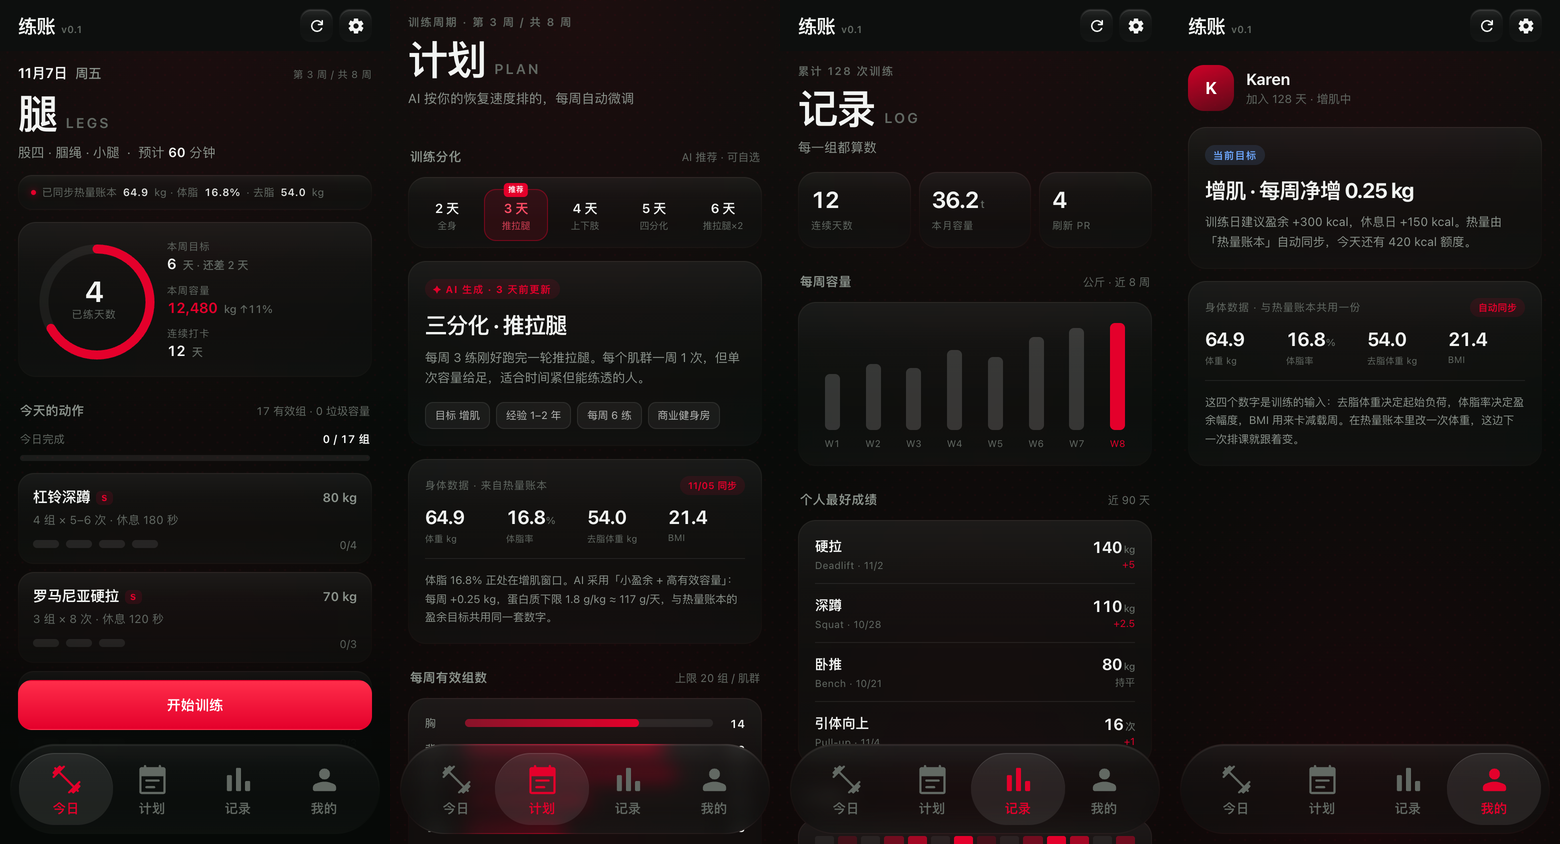
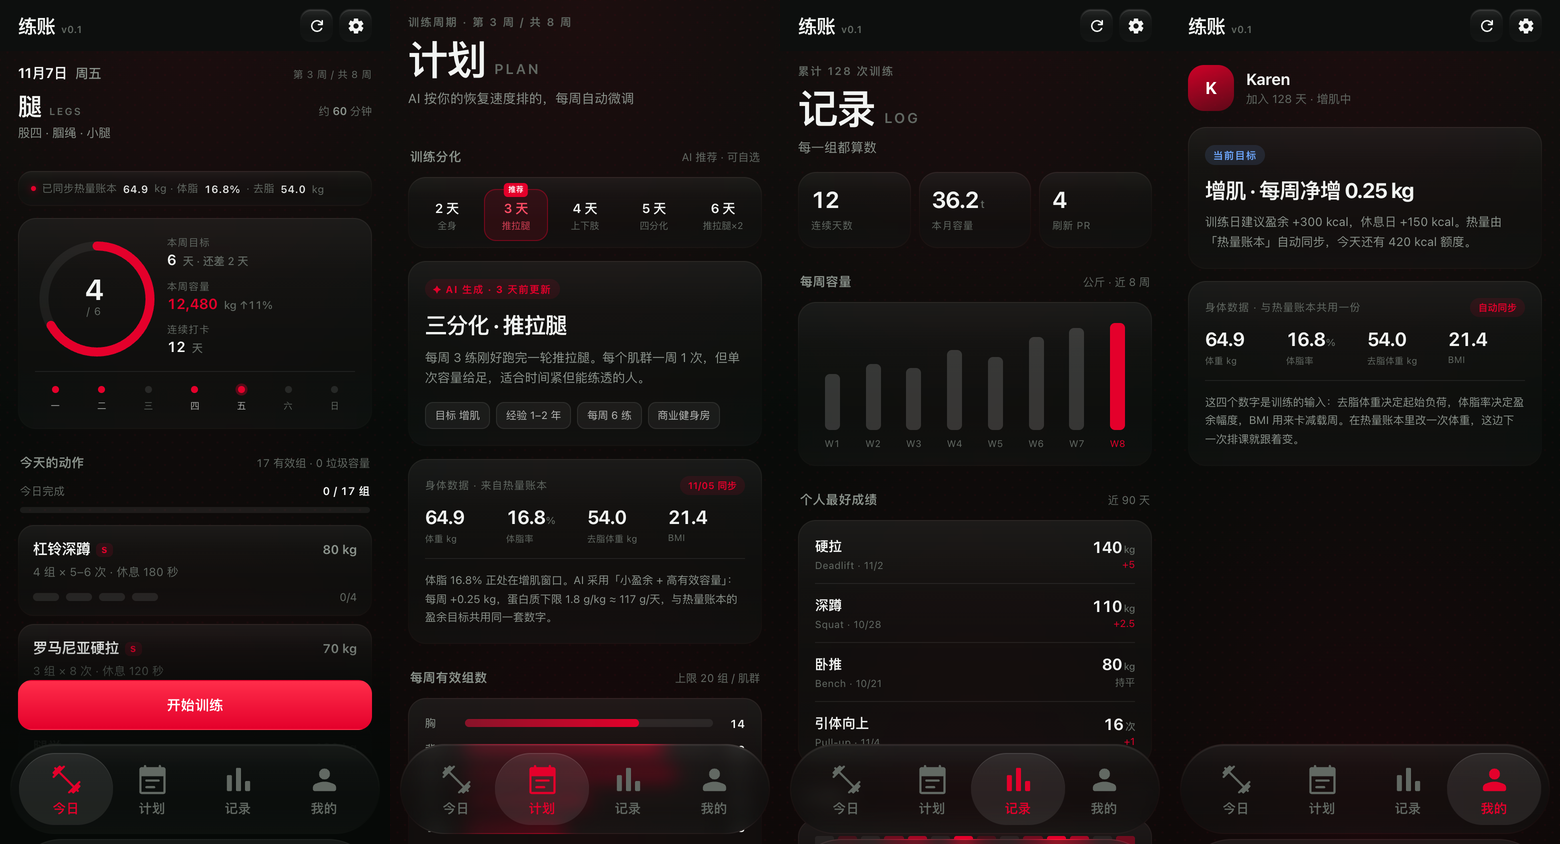
设置卡改贴底悬浮卡(10/52/66x4/版本在标题右/下滑关闭)；今日头部去PPT；圆圈改4/6+7点周条；status-bar改black

diff --git a/index.html b/index.html
@@ -5,7 +5,7 @@
 <meta name="viewport" content="width=device-width,initial-scale=1,maximum-scale=1,user-scalable=no">
 <meta name="theme-color" content="#08090a">
 <meta name="apple-mobile-web-app-capable" content="yes">
-<meta name="apple-mobile-web-app-status-bar-style" content="black-translucent">
+<meta name="apple-mobile-web-app-status-bar-style" content="black">
 <meta name="apple-mobile-web-app-title" content="练账">
 <link rel="manifest" href="./manifest.webmanifest">
 <link rel="icon" type="image/png" href="./icon-192.png">
@@ -132,6 +132,15 @@ body{
 .topicon{width:33px;padding:0}
 .topicon svg{width:18px;height:18px;fill:currentColor}
 
+/* 今日头部（App 化，不用封面大标题） */
+.todayhead{margin-bottom:16px}
+.throw{display:flex;align-items:baseline;gap:8px}
+.throw b{font-size:24px;font-weight:700;letter-spacing:-.03em;line-height:1.1}
+.throw .en{font-size:10px;font-weight:600;letter-spacing:.16em;color:var(--muted2)}
+.thmin{margin-left:auto;font-style:normal;font-size:11px;color:var(--muted2)}
+.thmin b{font-size:11px;font-weight:600;color:var(--muted)}
+.todayhead p{margin:5px 0 0;font-size:12px;color:var(--muted)}
+
 /* 日期行 */
 .dateline{display:flex;align-items:baseline;gap:8px;margin-bottom:10px}
 .dateline .d-main{font-size:14px;font-weight:650;color:var(--text);letter-spacing:-.01em}
@@ -211,7 +220,14 @@ h1 .en{font-size:14px;font-weight:600;letter-spacing:.16em;color:var(--muted2)}
 .card + .card{margin-top:13px}
 
 /* ---------- 进度环卡 ---------- */
-.ringcard{display:flex;align-items:center;gap:6px}
+.ringrow{display:flex;align-items:center;gap:6px}
+.weekstrip{display:flex;gap:6px;margin-top:15px;padding-top:14px;border-top:1px solid var(--line)}
+.wd-day{flex:1;display:flex;flex-direction:column;align-items:center;gap:6px}
+.wd-day i{width:7px;height:7px;border-radius:50%;background:rgba(255,255,255,.1)}
+.wd-day.on i{background:var(--lime)}
+.wd-day.today i{box-shadow:0 0 0 2.5px rgba(228,0,43,.32)}
+.wd-day span{font-size:9px;color:var(--muted2);letter-spacing:.02em}
+.wd-day.on span{color:rgba(242,244,242,.72)}
 .ringwrap{position:relative;width:118px;height:118px;flex:none}
 .ringwrap svg{transform:rotate(-90deg);display:block}
 .ring-bg{fill:none;stroke:rgba(255,255,255,.06);stroke-width:9}
@@ -475,7 +491,9 @@ h1 .en{font-size:14px;font-weight:600;letter-spacing:.16em;color:var(--muted2)}
 .pinfo span{font-size:11.5px;color:var(--muted2)}
 
 /* 设置分组 */
-.sheet.set{padding-top:8px;max-height:86%;overflow-y:auto}
+.sheet.set{padding-top:8px;max-height:calc(100% - 130px);overflow-y:auto;-webkit-overflow-scrolling:touch}
+.sheet.set .row{padding:11px 0}
+.sheet.set .row .lab small{margin-top:2px}
 .sheet.set h2{margin-bottom:2px}
 .setgroup{padding:12px 0 2px}
 .setgroup + .setgroup{border-top:1px solid var(--line);margin-top:6px}
@@ -512,8 +530,9 @@ h1 .en{font-size:14px;font-weight:600;letter-spacing:.16em;color:var(--muted2)}
 
 /* ---------- 弹层：玻璃 + 46 圆角（实测 #nutSheet） ---------- */
 .sheet{
-  position:absolute;left:0;right:0;bottom:0;z-index:41;
-  border-radius:46px 46px 0 0;
+  position:absolute;left:var(--dock-w);right:var(--dock-w);
+  bottom:calc(var(--dock-bottom) + var(--safe-b));z-index:41;
+  border-radius:var(--dock-r);
   background-color:transparent;
   background-image:linear-gradient(180deg,var(--glass-top) 0%,var(--glass-bot) 100%),var(--edge-gloss);
   background-origin:border-box;
@@ -521,7 +540,7 @@ h1 .en{font-size:14px;font-weight:600;letter-spacing:.16em;color:var(--muted2)}
   border:1px solid transparent;
   -webkit-backdrop-filter:var(--glass-blur);
   backdrop-filter:var(--glass-blur);
-  padding:10px 20px calc(24px + var(--safe-b));
+  padding:18px 20px 20px;
   transform:translateY(102%);
   transition:transform .42s cubic-bezier(.28,1.02,.3,1);
   max-height:88%;overflow-y:auto;
@@ -538,8 +557,10 @@ h1 .en{font-size:14px;font-weight:600;letter-spacing:.16em;color:var(--muted2)}
   box-shadow:none;
 }
 .sheet.float.on{transform:translate(-50%,-50%) scale(1);opacity:1;pointer-events:auto}
-.grab{width:38px;height:4px;border-radius:2px;background:rgba(255,255,255,.18);margin:0 auto 16px}
-.sheet h2{margin:0 0 4px;font-size:21px;font-weight:700;letter-spacing:-.025em}
+.grab{width:66px;height:4px;border-radius:2px;background:rgba(255,255,255,.16);margin:0 auto 14px}
+.sh-hd{display:flex;align-items:baseline;justify-content:space-between;margin:0 0 4px}
+.sheet h2{margin:0;font-size:21px;font-weight:700;letter-spacing:-.025em}
+.vtag{font-size:11px;color:var(--muted2);font-weight:600;letter-spacing:.02em}
 .sheet .hint{margin:0 0 18px;font-size:11.5px;color:var(--muted2);line-height:1.7}
 .field{margin-bottom:15px}
 .field label{display:block;font-size:10px;color:var(--muted2);letter-spacing:.09em;margin-bottom:8px;text-transform:uppercase}
@@ -632,8 +653,13 @@ h1 .en{font-size:14px;font-weight:600;letter-spacing:.16em;color:var(--muted2)}
       <section class="view on" data-view="today">
         <header class="head">
           <div class="dateline"><span class="d-main">11月7日</span><span class="d-wd">周五</span><span class="d-week">第 3 周 / 共 8 周</span></div>
-          <h1><span id="todayName">推</span> <span class="en" id="todayEn">PUSH</span></h1>
-          <p class="sub"><span id="todayFocus">胸 · 肩 · 三头</span> &nbsp;·&nbsp; 预计 <b id="todayMin">52</b> 分钟</p>
+          <div class="todayhead">
+            <div class="throw">
+              <b id="todayName">推</b><span class="en" id="todayEn">PUSH</span>
+              <i class="thmin">约 <b id="todayMin">52</b> 分钟</i>
+            </div>
+            <p id="todayFocus">胸 · 肩 · 三头</p>
+          </div>
         </header>
 
         <div class="syncline">
@@ -643,13 +669,14 @@ h1 .en{font-size:14px;font-weight:600;letter-spacing:.16em;color:var(--muted2)}
         </div>
 
 
-        <div class="card ringcard">
+        <div class="card">
+          <div class="ringrow">
           <div class="ringwrap">
             <svg width="124" height="124" viewBox="0 0 124 124">
               <defs>
                 <linearGradient id="ringGrad" x1="0" y1="0" x2="1" y2="1">
                   <stop offset="0%" stop-color="#E4002B"/>
-                  <stop offset="100%" stop-color="#9ee32f"/>
+                  <stop offset="100%" stop-color="#8F0020"/>
                 </linearGradient>
               </defs>
               <circle class="ring-bg" cx="62" cy="62" r="53"/>
@@ -657,7 +684,7 @@ h1 .en{font-size:14px;font-weight:600;letter-spacing:.16em;color:var(--muted2)}
             </svg>
             <div class="ringmid">
               <b id="weekDays">4</b>
-              <span>已练天数</span>
+              <span>/ 6</span>
             </div>
           </div>
           <div class="kpis">
@@ -674,6 +701,8 @@ h1 .en{font-size:14px;font-weight:600;letter-spacing:.16em;color:var(--muted2)}
               <div class="v">12 <em>天</em></div>
             </div>
           </div>
+          </div>
+          <div class="weekstrip" id="weekStrip"></div>
         </div>
 
         <div class="listhead">
@@ -936,8 +965,8 @@ h1 .en{font-size:14px;font-weight:600;letter-spacing:.16em;color:var(--muted2)}
     <!-- 设置 -->
     <div class="sheet set" id="setSheet">
       <div class="grab"></div>
-      <h2>设置</h2>
-      <p class="hint">练账 v0.1 · 界面预览</p>
+      <div class="sh-hd"><h2>设置</h2><span class="vtag">v0.1</span></div>
+      <p class="hint">界面预览</p>
 
       <div class="setgroup">
         <div class="setlabel">训练</div>
@@ -959,7 +988,6 @@ h1 .en{font-size:14px;font-weight:600;letter-spacing:.16em;color:var(--muted2)}
         <div class="row"><div class="lab">训练提醒<small>当天 18:30</small></div><div class="sw"></div></div>
       </div>
 
-      <button class="cta" id="setDone" style="margin-top:16px">完成</button>
     </div>
 
     <!-- 图标选择弹层 -->
@@ -1245,7 +1273,6 @@ h1 .en{font-size:14px;font-weight:600;letter-spacing:.16em;color:var(--muted2)}
     openSheet('#aiSheet');
   });
   $('#openSet').addEventListener('click', function(){ openSheet('#setSheet'); });
-  $('#setDone').addEventListener('click', closeSheets);
   $('#reloadTop').addEventListener('click', function(){ location.reload(); });
 
   $('#splitPick').addEventListener('click', function(e){
@@ -1435,6 +1462,28 @@ h1 .en{font-size:14px;font-weight:600;letter-spacing:.16em;color:var(--muted2)}
     box.innerHTML = html;
   })();
 
+  /* ---------- 弹层下滑关闭 ---------- */
+  (function(){
+    var sh = $('#setSheet'), startY = 0, dy = 0, dragging = false;
+    sh.addEventListener('touchstart', function(e){
+      if (sh.scrollTop > 0) return;
+      startY = e.touches[0].clientY; dragging = true; dy = 0;
+      sh.style.transition = 'none';
+    }, { passive: true });
+    sh.addEventListener('touchmove', function(e){
+      if (!dragging) return;
+      dy = Math.max(0, e.touches[0].clientY - startY);
+      sh.style.transform = 'translateY(' + dy + 'px)';
+    }, { passive: true });
+    sh.addEventListener('touchend', function(){
+      if (!dragging) return;
+      dragging = false;
+      sh.style.transition = '';
+      sh.style.transform = '';
+      if (dy > 90) closeSheets();
+    });
+  })();
+
   /* ---------- 图标选择 ---------- */
   $('#iconRow').addEventListener('click', function(){
     renderIconSheet();
@@ -1454,6 +1503,13 @@ h1 .en{font-size:14px;font-weight:600;letter-spacing:.16em;color:var(--muted2)}
   window.addEventListener('resize', function(){
     placePill(order.indexOf($('.tab.on') ? $('.tab.on').dataset.tab : 'today'));
   });
+  var WEEK = [['一',1],['二',1],['三',0],['四',1],['五',1],['六',0],['日',0]];
+  (function renderWeekStrip(){
+    $('#weekStrip').innerHTML = WEEK.map(function(d,i){
+      return '<div class="wd-day' + (d[1] ? ' on' : '') + (i === 4 ? ' today' : '') +
+        '"><i></i><span>' + d[0] + '</span></div>';
+    }).join('');
+  })();
   setSplit(3);
   // 环 = 本周训练进度（4 / 6 天）
   ringFg.style.strokeDashoffset = C * (1 - 4 / 6);
